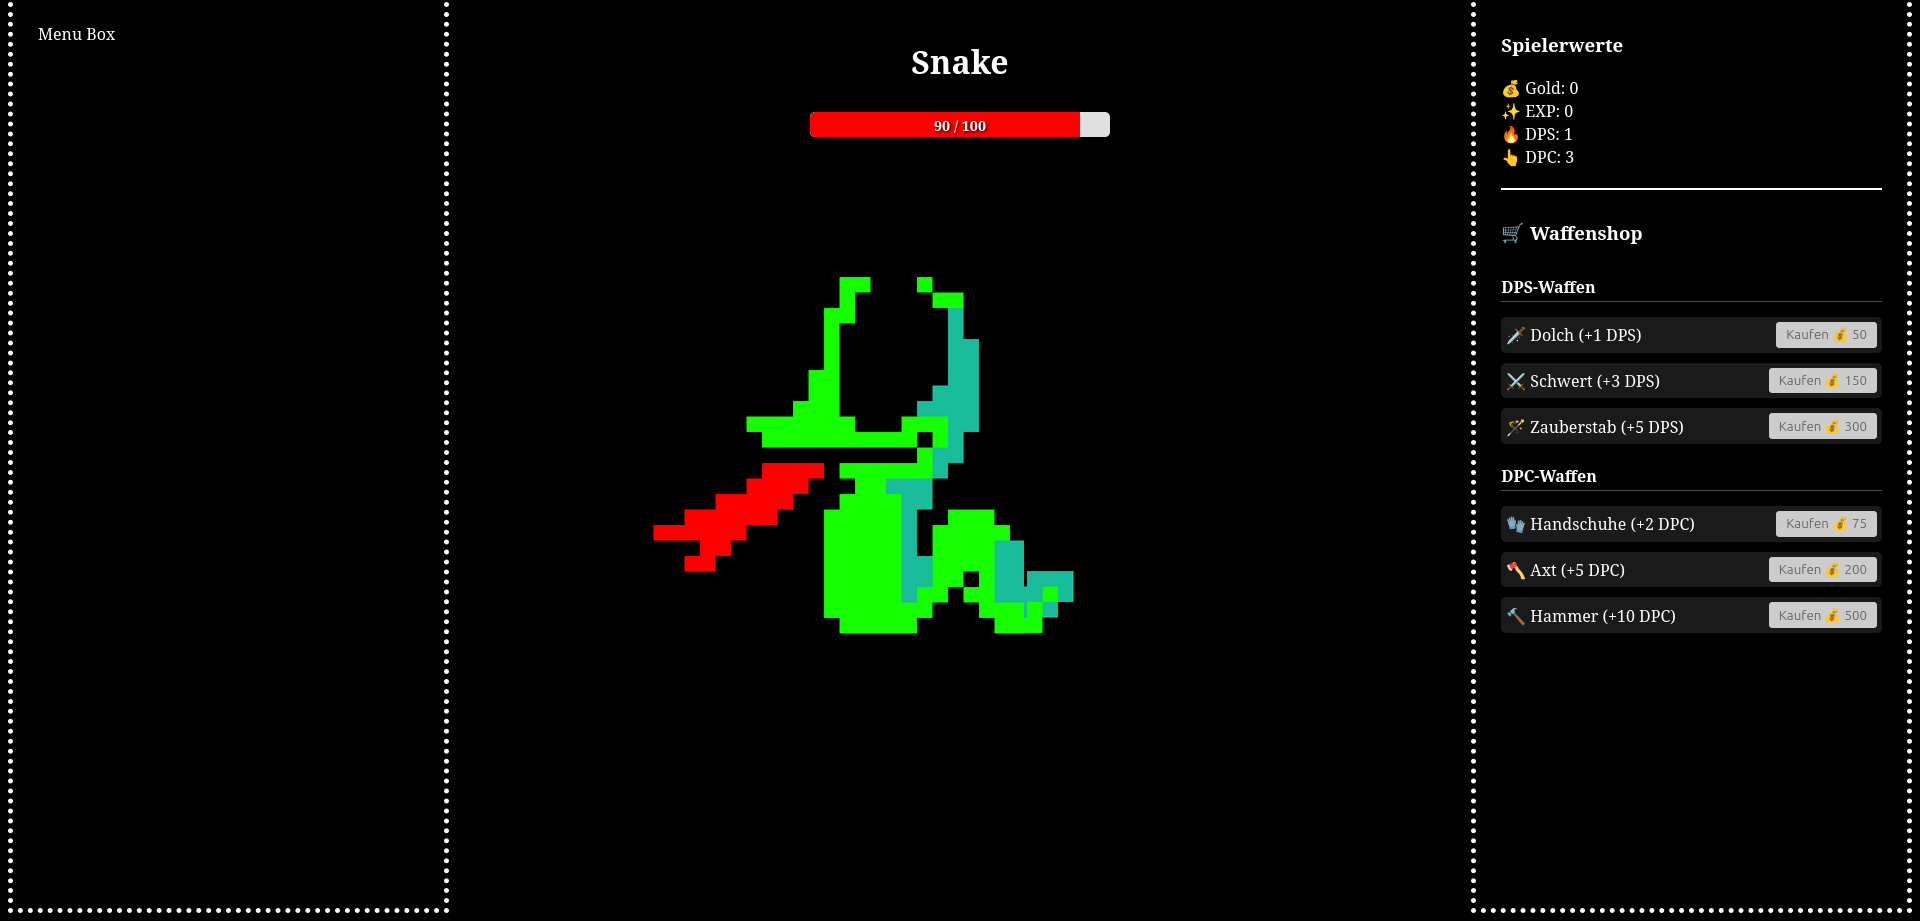
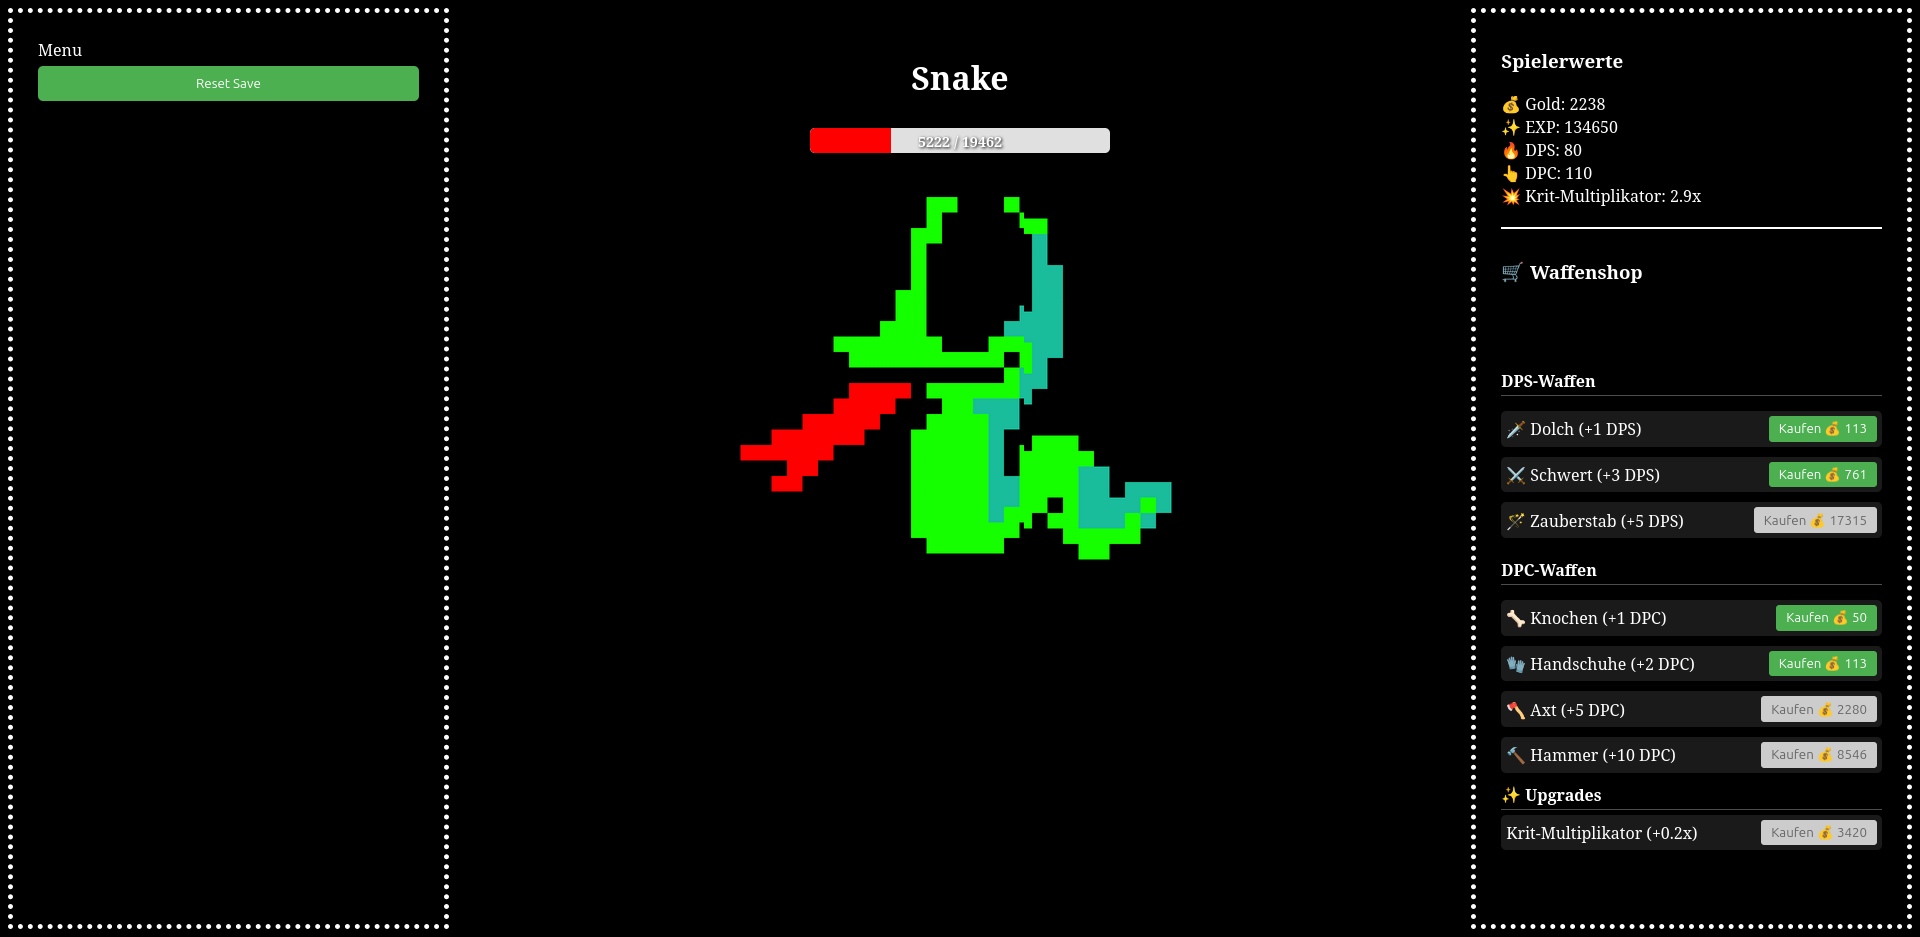
Füge Goblin-Gegner hinzu und optimiere die Struktur der Gegnerdaten; verbessere das Menü mit Bestätigungsdialog für Spielstand zurücksetzen

diff --git a/src/EnemyData.jsx b/src/EnemyData.jsx
@@ -1,30 +1,10 @@
 // EnemyData.js
 export default function EnemyData() {
     const enemies = [
-        {
-            id: 1,
-            name: "Snake",
-            health: 100,
-            image: "/snake.png",
-            exp: 50,
-            gold: 20
-        },
-        {
-            id: 2,
-            name: "Ghost",
-            health: 200,
-            image: "/ghost.png",
-            exp: 100,
-            gold: 50
-        },
-        {
-            id: 3,
-            name: "Dragon",
-            health: 250,
-            image: "/dragon.png",
-            exp: 200,
-            gold: 100
-        }
+        { id: 1, name: "Snake", health: 100, image: "/snake.png", exp: 50, gold: 20 },
+        { id: 2, name: "Ghost", health: 200, image: "/ghost.png", exp: 100, gold: 50 },
+        { id: 3, name: "Dragon", health: 250, image: "/dragon.png", exp: 200, gold: 100 },
+        { id: 4, name: "Goblin", health: 120, image: "/goblin.png", exp: 60, gold: 25 },
     ];
 
     // Zufälligen Gegner auswählen
@@ -32,3 +12,43 @@ export default function EnemyData() {
 
     return randomEnemy; // Gibt den zufälligen Gegner zurück
 }
+
+/*      { id: 5, name: "Zombie", health: 150, image: "/zombie.png", exp: 80, gold: 30 },
+        { id: 6, name: "Skeleton", health: 130, image: "/skeleton.png", exp: 70, gold: 28 },
+        { id: 7, name: "Bat", health: 90, image: "/bat.png", exp: 40, gold: 15 },
+        { id: 8, name: "Slime", health: 110, image: "/slime.png", exp: 55, gold: 22 },
+        { id: 9, name: "Imp", health: 140, image: "/imp.png", exp: 75, gold: 35 },
+        { id: 10, name: "Troll", health: 180, image: "/troll.png", exp: 95, gold: 45 },
+        { id: 11, name: "Orc", health: 220, image: "/orc.png", exp: 120, gold: 60 },
+        { id: 12, name: "Werewolf", health: 240, image: "/werewolf.png", exp: 140, gold: 75 },
+        { id: 13, name: "Witch", health: 230, image: "/witch.png", exp: 135, gold: 70 },
+        { id: 14, name: "Golem", health: 300, image: "/golem.png", exp: 160, gold: 90 },
+        { id: 15, name: "Vampire", health: 280, image: "/vampire.png", exp: 170, gold: 100 },
+        { id: 16, name: "Harpy", health: 200, image: "/harpy.png", exp: 110, gold: 55 },
+        { id: 17, name: "Minotaur", health: 310, image: "/minotaur.png", exp: 180, gold: 110 },
+        { id: 18, name: "Basilisk", health: 260, image: "/basilisk.png", exp: 150, gold: 85 },
+        { id: 19, name: "Wraith", health: 270, image: "/wraith.png", exp: 155, gold: 90 },
+        { id: 20, name: "Demon", health: 350, image: "/demon.png", exp: 220, gold: 130 },
+        { id: 21, name: "Hellhound", health: 320, image: "/hellhound.png", exp: 200, gold: 120 },
+        { id: 22, name: "Chimera", health: 380, image: "/chimera.png", exp: 230, gold: 135 },
+        { id: 23, name: "Manticore", health: 400, image: "/manticore.png", exp: 250, gold: 150 },
+        { id: 24, name: "Dark Knight", health: 420, image: "/darkknight.png", exp: 260, gold: 160 },
+        { id: 25, name: "Necromancer", health: 390, image: "/necromancer.png", exp: 240, gold: 145 },
+        { id: 26, name: "Cyclops", health: 360, image: "/cyclops.png", exp: 210, gold: 125 },
+        { id: 27, name: "Specter", health: 280, image: "/specter.png", exp: 150, gold: 90 },
+        { id: 28, name: "Shade", health: 300, image: "/shade.png", exp: 165, gold: 95 },
+        { id: 29, name: "Griffin", health: 330, image: "/griffin.png", exp: 190, gold: 110 },
+        { id: 30, name: "Elemental", health: 370, image: "/elemental.png", exp: 220, gold: 130 },
+        { id: 31, name: "Behemoth", health: 450, image: "/behemoth.png", exp: 280, gold: 170 },
+        { id: 32, name: "Lich", health: 430, image: "/lich.png", exp: 270, gold: 165 },
+        { id: 33, name: "Hydra", health: 470, image: "/hydra.png", exp: 300, gold: 180 },
+        { id: 34, name: "Phoenix", health: 500, image: "/phoenix.png", exp: 320, gold: 190 },
+        { id: 35, name: "Kraken", health: 550, image: "/kraken.png", exp: 350, gold: 200 },
+        { id: 36, name: "Banshee", health: 260, image: "/banshee.png", exp: 140, gold: 80 },
+        { id: 37, name: "Djinn", health: 340, image: "/djinn.png", exp: 200, gold: 120 },
+        { id: 38, name: "Cerberus", health: 460, image: "/cerberus.png", exp: 290, gold: 175 },
+        { id: 39, name: "Succubus", health: 310, image: "/succubus.png", exp: 185, gold: 105 },
+        { id: 40, name: "Warlock", health: 390, image: "/warlock.png", exp: 240, gold: 140 },
+        { id: 41, name: "Archdemon", health: 600, image: "/archdemon.png", exp: 400, gold: 250 },
+        { id: 42, name: "Titan", health: 650, image: "/titan.png", exp: 450, gold: 280 },
+        { id: 43, name: "Death Knight", health: 500, image: "/deathknight.png", exp: 350, gold: 220 } */

diff --git a/src/MenuComponent.jsx b/src/MenuComponent.jsx
@@ -1,5 +1,6 @@
 import React from 'react';
 import './MenuComponent.css';
+import './EnemyComponent.jsx';
 
 // Empfängt nur noch die resetGameState Funktion als Prop
 export default function MenuComponent({ resetGameState }) {
@@ -12,6 +13,7 @@ export default function MenuComponent({ resetGameState }) {
         if (window.confirm('Möchtest du wirklich den Spielstand zurücksetzen? Alle Fortschritte gehen verloren!')) {
             resetGameState(); // Ruft die Funktion aus App.jsx auf
         }
+
     };
 
     return (
